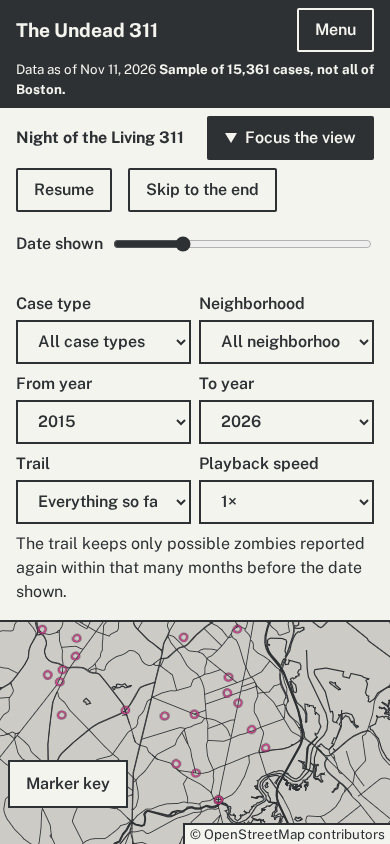
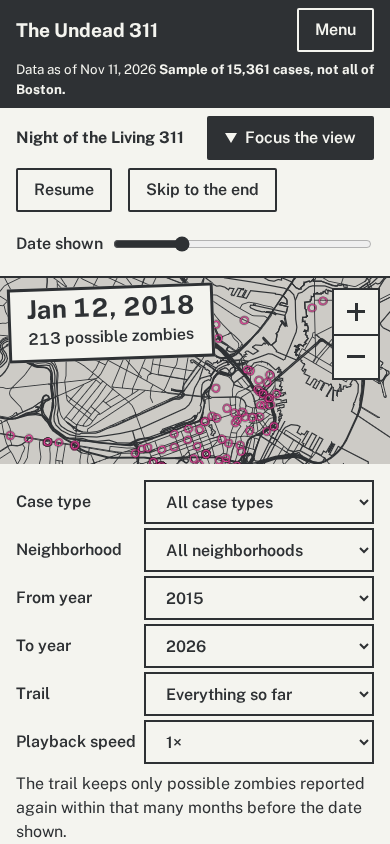
fix(web): reviewer-ux round 4 on ui/polish, and a lost Escape on the card
- Time-lapse dots keep shrinking below zoom 11 (0.15 of full size at the floor), so the
  zoomed-out view reads as dots, not one mass.
- Phones: "Focus the view" is a bottom sheet capped at 45% of the screen, so the toolbar,
  the date stamp and the top of the map stay in view; each label sits beside its select.
- Card route: the Escape listener is registered once, before paint, so an Escape pressed as
  the card appears is never lost (e2e failed 1 in 6, now 6 of 6 pass).

Kiro-Agent: web
Kiro-Run: manual

diff --git a/web/src/pages/CardRoute.tsx b/web/src/pages/CardRoute.tsx
@@ -1,4 +1,4 @@
-import { useEffect, useRef } from "react";
+import { useEffect, useLayoutEffect, useRef } from "react";
 import { useNavigate, useParams, useSearchParams } from "react-router-dom";
 import { AutopsyCard, type CardWithPartial } from "../components/AutopsyCard";
 import { PanelError } from "../components/PanelError";
@@ -39,13 +39,17 @@ export default function CardRoute() {
     return () => before?.focus?.();
   }, []);
 
-  useEffect(() => {
+  // Escape closes the card. Registered once, before the first paint, and reading the latest search through a ref: re-registering
+  // on every change left a gap in which an Escape pressed as soon as the card showed was lost (an e2e test caught it 1 time in 6).
+  const closeRef = useRef(close);
+  closeRef.current = close;
+  useLayoutEffect(() => {
     const onKey = (e: KeyboardEvent) => {
-      if (e.key === "Escape") navigate({ pathname: "/", search: params.toString() });
+      if (e.key === "Escape") closeRef.current();
     };
     document.addEventListener("keydown", onKey);
     return () => document.removeEventListener("keydown", onKey);
-  }, [navigate, params]);
+  }, []);
 
   const missing = (points.status === "ok" && index < 0) || (shard.status === "ok" && !card);
   return (

diff --git a/web/src/styles/app.css b/web/src/styles/app.css
@@ -644,8 +644,21 @@ select {
   /* title and Focus the view share the first row; the playback controls take the next */
   .timelapse-focus-panel { order: 1; margin-left: auto; }
   .timelapse-controls, .timelapse-reduced { order: 2; flex-basis: 100%; }
-  .timelapse-focus-body { left: 0; right: 0; width: auto; border-left: 0; border-right: 0; }
-  .timelapse-focus { grid-template-columns: 1fr 1fr; gap: var(--space-2); }
+  /* On a phone the panel is a sheet at the bottom of the screen, so the toolbar, the date stamp and the top of the map stay in view (reviewer-ux r4 F2). */
+  .timelapse-focus-body {
+    position: fixed;
+    top: auto;
+    bottom: 0;
+    left: 0;
+    right: 0;
+    width: auto;
+    max-height: 45dvh;
+    border-width: 2px 0 0;
+    padding-bottom: max(var(--space-3), env(safe-area-inset-bottom));
+  }
+  /* each label beside its select, so the current value is not cut off (F3) */
+  .timelapse-focus { grid-template-columns: 1fr; gap: var(--space-1); }
+  .timelapse-focus label { grid-template-columns: 7.5rem minmax(0, 1fr); align-items: center; gap: var(--space-2); }
   .date-stamp { top: var(--space-2); left: var(--space-2); }
 }
 

diff --git a/web/src/map/layers.test.ts b/web/src/map/layers.test.ts
@@ -130,6 +130,10 @@ describe("time-lapse markers never cluster and grow with zoom (REQ-WEB-TIMELAPSE
     expect(markerSize(false, false, 11.2, "dots")).toBeLessThan(markerSize(false, false, 11.2, "density"));
     expect(markerSize(false, false, 14.5, "dots")).toBe(30);
     expect(markerSize(false, false, 12, "dots")).toBeGreaterThan(markerSize(false, false, 11, "dots"));
+    // zoomed out to the floor the dots keep shrinking, so the core reads as dots, not a blob (reviewer-ux r4 F1)
+    expect(markerSize(false, true, 9.2, "dots")).toBeLessThan(markerSize(false, true, 11.2, "dots") * 0.6);
+    expect(markerSize(false, true, 9.2, "dots")).toBeGreaterThanOrEqual(3);
+    for (let z = 8; z < 15; z += 0.25) expect(markerSize(false, false, z + 0.25, "dots")).toBeGreaterThanOrEqual(markerSize(false, false, z, "dots"));
     const icon = (zoom: number) => (layer(zoom)["zombies"].props as unknown as { getIcon: (d: PointRow) => string }).getIcon(rows[0]);
     expect(icon(11.2)).toMatch(/^other-/); // no letter at city zoom
     expect(icon(14)).toMatch(/^sign-/);

diff --git a/web/src/map/density.ts b/web/src/map/density.ts
@@ -42,11 +42,13 @@ export function markerScale(zoom: number): number {
 
 /**
  * Marker size multiplier for the time-lapse, which never clusters (every possible zombie appears on its own): about a third of full size at
- * city zoom, so the build-up reads as spray dots gathering rather than one blob, growing to full size at zoom 14.5.
+ * the opening zoom and less when zoomed out further, so the build-up reads as spray dots gathering rather than one blob, growing to full size at zoom 14.5.
  */
 export function dotScale(zoom: number): number {
   if (!Number.isFinite(zoom)) return 1;
-  return Math.min(1, Math.max(0.3, 0.35 + (zoom - 11) * (0.65 / 3.5)));
+  // Zoomed out past the opening view the city shrinks faster than the dots, so they keep shrinking too: 0.15 at the zoom floor (9.2).
+  if (zoom < 11) return Math.max(0.15, 0.35 - (11 - zoom) * 0.11);
+  return Math.min(1, 0.35 + (zoom - 11) * (0.65 / 3.5));
 }
 
 /** Icon size in pixels for a cluster: grows with the log of the count, from about 37 px for 2 to 60 px. */

diff --git a/web/src/map/layers.ts b/web/src/map/layers.ts
@@ -103,7 +103,7 @@ export function buildLayers(i: LayerInput) {
       getPosition: (d) => [d.lon, d.lat],
       getSize: (d) => markerSize(d.id === selectedId, compact, zoom, mode),
       sizeUnits: "pixels",
-      sizeMinPixels: mode === "dots" ? 7 : compact ? 16 : 18,
+      sizeMinPixels: mode === "dots" ? 3 : compact ? 16 : 18,
       updateTriggers: { getSize: [selectedId, compact, zoom, mode], getIcon: [plain] },
     }),
     new ScatterplotLayer<PointRow>({

diff --git a/docs/KIRO_LOG.md b/docs/KIRO_LOG.md
@@ -93,3 +93,4 @@ Format: `YYYY-MM-DD | surface | feature | what was built/fixed | issue + fix`
 2026-11-18 | Web | reviewer-ux agent (round 2: approve) + PBT, ui/polish | Fixed its should-fix and nit items: clusters closer than 44 px are merged so no count covers another (property test), the open marker key stays clear of the OSM credit and zoom buttons, the phone filter sheet starts at the count strip, 44 px methods contents links, a centred time-lapse column with body-size help text | Centring the time-lapse column with auto margins brought back a 0.09 layout shift on desktop (the e2e CLS check caught it); a fixed width fixed it.
 2026-11-18 | Web | reviewer-ux agent (round 3: approve) + unit tests | Fixed its two nits: a 0.012 layout shift on the home page at 320 px (the floor note wraps to a third line under 345 px; the count strip now reserves that height) and a marker-key list that scrolls but was not keyboard-reachable (now a named focus stop) | Kiro's round-2 data cache had a test-isolation bug: a panel that mounted with cached data still started its own load, which could run after the test's cleanup and cache a "Failed to parse URL" error for the next test (3 failures in 15 stress runs, then 0 in 15). useData now keeps the result it mounted with and starts no load.
 2026-11-19 | Web | unit + e2e tests, go-pmtiles (build tool), ui/polish round 3 | Basemap extract widened to greater Boston (-71.55..-70.65, 42.05..42.65, maxzoom 13, 18 MB, recipe in web/scripts/make-basemap.sh) with pan limits equal to it and a zoom floor two steps out; static two-column methods contents list; marker key close button and Escape; time-lapse as a full-screen hero with a compact toolbar, a closed focus panel over the map, a date stamp, and unclustered markers that grow with zoom | Found the bottom grey box: Netlify's Drawer frame on deploy previews, blocked by our CSP (documented in docs/DEPLOY.md, no code change). The new Escape handler first waited for React state set by the asynchronous details toggle event, so an Escape pressed right after opening was missed (phone e2e caught it); it now reads the element's open state.
+2026-11-19 | Web | reviewer-ux agent (round 4: approve) + e2e | Fixed its should-fix items: time-lapse dots keep shrinking below zoom 11 so the zoomed-out phone view reads as dots, and on phones "Focus the view" is a bottom sheet capped at 45% of the screen with each label beside its select; also made the card's Escape listener register once before paint | A desktop e2e lost an Escape 1 time in 6 because the card re-registered its listener after paint on every search change; fixed and re-run 6 times. Headless Chrome drops WebGL pixels from full-viewport screenshots when a fixed sheet overlaps the map (clipped captures show the map), so the committed phone focus screenshot is stitched from three clips of one frame.
